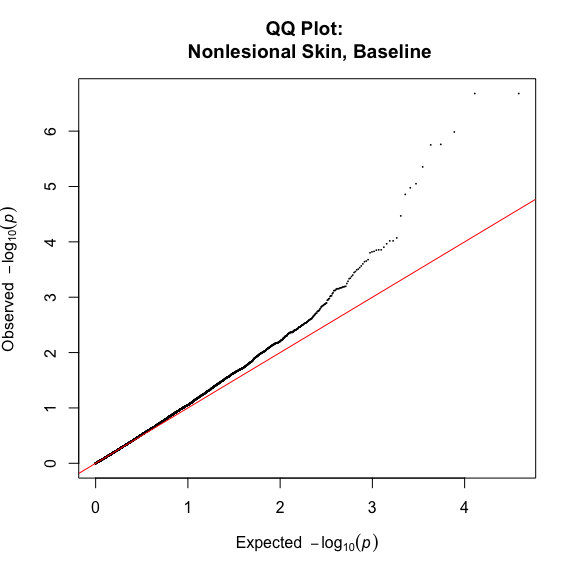
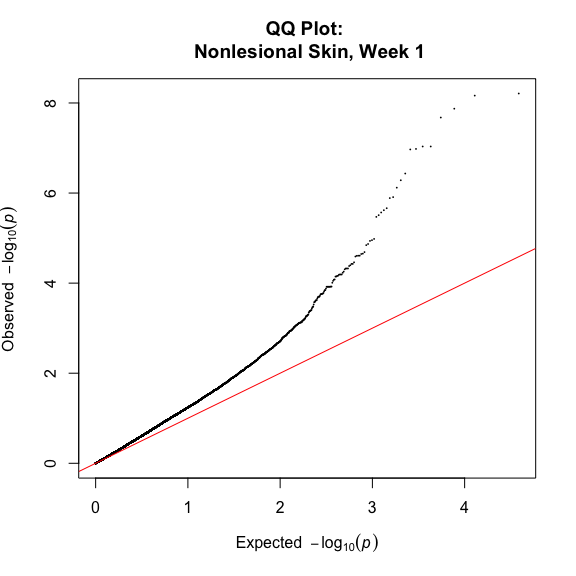
update

diff --git a/Scripts/Response_Script.md b/Scripts/Response_Script.md
@@ -454,44 +454,44 @@ ggplot(df, aes(Time, DEgenes, fill = Tissue)) +
 <img src="Response_Script_files/figure-markdown_github/resbar-1.png" style="display: block; margin: auto;" />
 </p>
 
-The single most differentially expressed contrast in these data is lesional skin at week 12, which makes good biological sense. No tissue type is especially predictive of response at baseline, although nonlesional skin seems to have the clearest signal of the three.
+The single most differentially expressed contrast in these data is nonlesional skin at week 1. No tissue type is especially predictive of response at baseline, although blod and nonlesional skin seem to be tied in this regard. The poor performance of nonlesional skin across the board is a somewhat surprising and unwelcome result.
 
-Nonlesional Skin, Baseline
---------------------------
+Nonlesional Skin, Week 1
+------------------------
 
-Let's take a closer look at the baseline results for nonlesional skin. These are the top ten genes associated with biologic response in that contrast.
+Let's take a closer look at week 1 results for nonlesional skin, since this is where signal is apparently the strongest. These are the top ten genes associated with biologic response in that contrast.
 
 ``` r
-top <- fread('./Results/Response/Nonlesional.wk00.Response.txt')
+top <- fread('./Results/Response/Nonlesional.wk01.Response.txt')
 head(top, 10)
 ```
 
-| EnsemblID       | GeneSymbol   |     AvgExpr|       logFC|   p.value|    q.value|
-|:----------------|:-------------|-----------:|-----------:|---------:|----------:|
-| ENSG00000206455 | TCF19        |  -1.7684004|  -17.607976|  2.00e-07|  0.0020188|
-| ENSG00000234674 | TCF19        |  -1.7684004|  -17.607976|  2.00e-07|  0.0020188|
-| ENSG00000230230 | TRIM26       |  -1.8997054|   27.382704|  1.00e-06|  0.0066552|
-| ENSG00000226232 | RP11-419C5.2 |   1.8063606|   -3.129186|  1.70e-06|  0.0068403|
-| ENSG00000206501 | PPP1R11      |  -2.0135774|  -17.202879|  1.80e-06|  0.0068403|
-| ENSG00000034971 | MYOC         |  -0.4890336|   -5.509046|  4.40e-06|  0.0142520|
-| ENSG00000196101 | HLA-DRB3     |  -2.2601731|  -19.195594|  8.90e-06|  0.0245835|
-| ENSG00000227171 | RNF39        |  -3.5978248|   22.721071|  1.06e-05|  0.0254985|
-| ENSG00000206457 | CCHCR1       |  -1.0663214|  -13.502340|  1.39e-05|  0.0297938|
-| ENSG00000206459 | PSORS1C2     |  -3.5578722|  -13.554901|  3.40e-05|  0.0655997|
+| EnsemblID       | GeneSymbol |     AvgExpr|       logFC|  p.value|    q.value|
+|:----------------|:-----------|-----------:|-----------:|--------:|----------:|
+| ENSG00000206501 | PPP1R11    |  -2.0135774|  -17.394123|    0e+00|  0.0000589|
+| ENSG00000224859 | ZNRD1      |  -2.8749890|   23.555889|    0e+00|  0.0000589|
+| ENSG00000227171 | RNF39      |  -3.5978248|   23.766403|    0e+00|  0.0000766|
+| ENSG00000230230 | TRIM26     |  -1.8997054|   23.258520|    0e+00|  0.0000904|
+| ENSG00000206455 | TCF19      |  -1.7684004|  -16.478593|    1e-07|  0.0002310|
+| ENSG00000234674 | TCF19      |  -1.7684004|  -16.478593|    1e-07|  0.0002310|
+| ENSG00000140465 | CYP1A1     |  -2.0158000|  -12.348735|    1e-07|  0.0002310|
+| ENSG00000231679 | HLA-DRB3   |  -1.8289025|   29.692425|    1e-07|  0.0002310|
+| ENSG00000150667 | FSIP1      |  -0.3325605|   -9.155531|    4e-07|  0.0007032|
+| ENSG00000233841 | HLA-C      |   1.9860928|   26.738430|    5e-07|  0.0008929|
 
-It will be interesting to see if pathway analysis confirms a strong TNF inhibitor signal in these data.
+It will be interesting to see if pathway analysis confirms a strong TNF and/or IFN signal in these data.
 
 Let's quickly check that *p*-values are well-behaved.
 
 ``` r
-qq(top$p.value, pch = 16, cex = 0.25, main = 'QQ Plot: \n Nonlesional Skin, Baseline')
+qq(top$p.value, pch = 16, cex = 0.25, main = 'QQ Plot: \n Nonlesional Skin, Week 1')
 ```
 
 <p align='center'>
 <img src="Response_Script_files/figure-markdown_github/qq-1.png" style="display: block; margin: auto;" />
 </p>
 
-The observed *p*-values begin to deviate from their expected distribution under the null hypothesis quite early in this plot, suggesting that there may be a considerable number of false negatives in these results and/or some covariance structure in the data that has not been adequately captured by our model.
+The observed *p*-values begin to deviate from their expected distribution under the null hypothesis very early in this plot, suggesting some covariance structure in the data that has not been adequately captured by our model.
 
 Next, we visualise the mean-variance trend in these results with an MD plot.
 
@@ -511,7 +511,9 @@ plot_volcano(top, fdr = 0.1,
              main = 'Differential Expression by Drug Response: \n Lesional Skin, Baseline')
 ```
 
+<p align='center'>
 <img src="Response_Script_files/figure-markdown_github/volc-1.png" style="display: block; margin: auto;" />
+</p>
 
 The plot is a little right-shifted, indicating more up- than down-regulation among genes in this contrast, but the difference is not particularly extreme.
 
@@ -540,6 +542,8 @@ aheatmap(deg, distfun = 'pearson', scale = 'row', col = rb,
          annCol = list(DeltaPASI = pheno$DeltaPASI[grep('Nonlesional.wk00', pheno$Sample)]))
 ```
 
+<p align='center'>
 <img src="Response_Script_files/figure-markdown_github/heatmap-1.png" style="display: block; margin: auto;" />
+</p>
 
 The sample-wise clustering in this heatmap makes some sense. Patients are seemingly stratified into strong, medium, and non-responders. The gene-wise clustering, however, is a little harder to parse out. Expression values for each gene vary considerably across libraries, with only a few instances of clear blocks emerging from the data. That could be a byproduct of the relatively low dimensionality in this case - just 46 genes observed across 10 samples. We'll continue with bigger matrices in later analyses.
